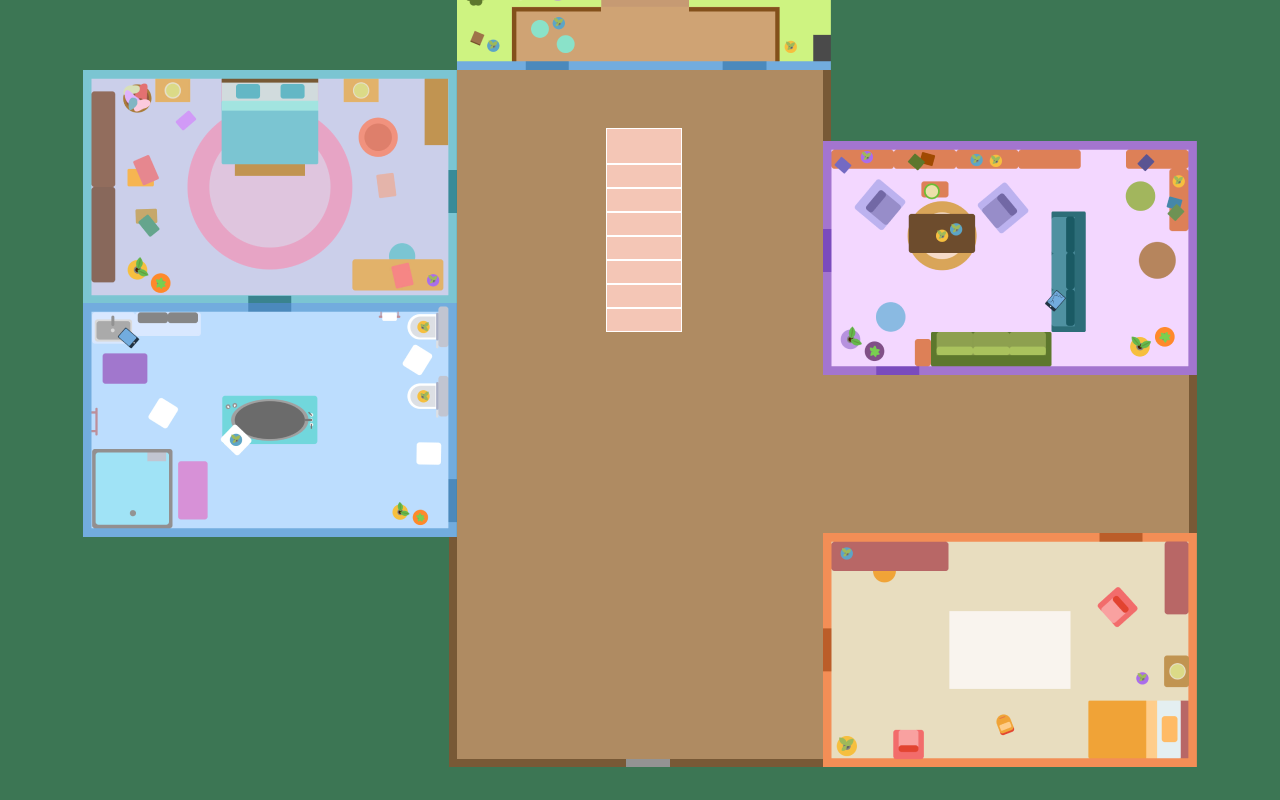
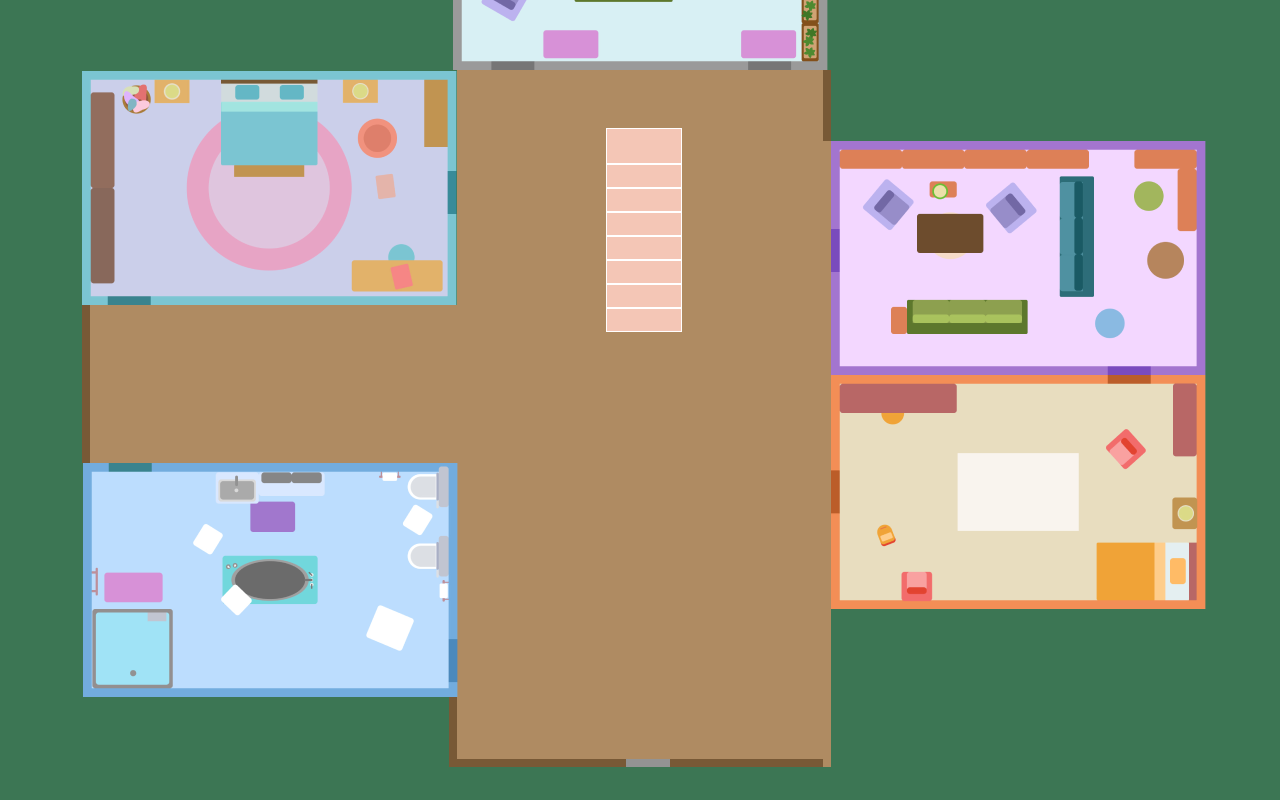
Final

diff --git a/f2bathroom/f2bathroom.html b/f2bathroom/f2bathroom.html
@@ -25,8 +25,8 @@
     <img src="../universal/smoly.png" alt="Object 5" class="breakableObject" id="object5">
     <img src="../universal/smoly.png" alt="Object 6" class="breakableObject" id="object6">
     <img src="../universal/ipad.png" alt="Object 12" class="breakableObject" id="object12">
-    <img src="../universal/door13.png" alt="Object 8" class="breakableObject" id="door">
-    <img src="../universal/door13.png" alt="Object 9" class="breakableObject" id="door2">
+    <img src="../universal/door18.png" alt="Object 8" class="breakableObject" id="door">
+    <img src="../universal/door19.png" alt="Object 9" class="breakableObject" id="door2">
     <img src="../universal/treat.png" alt="Object 10" class="breakableObject" id="object10">
 
 
@@ -36,7 +36,7 @@
   <script src="../universal/function_util.js"></script>
   <audio id="bgMusic" loop autoplay>
     <source src="../universal/bg.mp3" type="audio/mp3">
-  </audio>  <div class="scoreboard-container">  <div class="scoreboard-container">
+  </audio>  <div class="scoreboard-container">
     <div class="scoreboard">
       <div class="break" id="break">0</div>
       <div class="speed">Speed: <span id="timer">0</span></div>

diff --git a/f2hallway/f2hallway.css b/f2hallway/f2hallway.css
@@ -94,14 +94,14 @@ img[id^="door"] {
 }
 
 /* Positions for doors */
-#door1 { top: 160px; left: 447px; width: 10px; height: 55px;}
-#door2 { top: 475px; left: 448px; width: 10px; height: 55px;}
-#door3 { top: 625px; left: 822px; width: 10px; height: 55px; }
-#door4 { top: 533px; left: 1100px; width: 55px; height: 10px; }
-#door5 { top: 366px; left: 870px; width: 55px; height: 10px; }
-#door6 { top: 230px; left: 822px; width: 10px; height: 55px; }
-#door7 { top: 60px; left: 720px; width: 55px; height: 10px;}
-#door8 { top: 60px; left: 520px; width: 55px; height: 10px;}
+#door1 { top: 145px; left: 447px; width: 10px; height: 55px;}
+#door2 { top: 620px; left: 448px; width: 10px; height: 55px;}
+#door3 { top: 470px; left: 830px; width: 10px; height: 55px; }
+#door4 { top: 463px; left: 110px; width: 55px; height: 10px; }
+#door5 { top: 295px; left: 105px; width: 55px; height: 10px; }
+#door6 { top: 230px; left: 830px; width: 10px; height: 55px; }
+#door7 { top: 60px; left: 740px; width: 55px; height: 10px;}
+#door8 { top: 60px; left: 480px; width: 55px; height: 10px;}
 
 #stairs {
   position: absolute;

diff --git a/library/library.js b/library/library.js
@@ -27,6 +27,10 @@ let grandma_pos_X_offset = 23;
 let grandma_pos_Y_offset = 23;
 let grandmaSpeed = 1;
 
+let randomNumber = Math.random();
+let treatVisibility = randomNumber > 0.5;
+document.getElementById("object10").style.visibility = treatVisibility? 'visible' : 'hidden';
+
 // Movement tracking
 const movement = {
   up: false,
@@ -55,7 +59,7 @@ const objects = [
   { element: document.getElementById("object12"), brokenSrc: '../universal/broken-ipad.png', type: "break" },
   { element: document.getElementById("object13"), brokenSrc: '../universal/broken-smolb.png', type: "treat", visibility: treatVisibility },
   { element: document.getElementById("door"), isDoor: true, navigateTo: '../f2hallway/f2hallway.html'},
-  { element: document.getElementById("door2"), isDoor: true, navigateTo: '../f2hallway/f2hallway.html'}
+  { element: document.getElementById("door2"), isDoor: true, navigateTo: '../f2bedroom2/f2bedroom2.html'}
 ];
 const objectStates = [false, false, false, false, false, false, false, false,false,false,false,false]; // Tracks whether objects are broken
 

diff --git a/f2bedroom2/f2bedroom2.js b/f2bedroom2/f2bedroom2.js
@@ -52,9 +52,9 @@ const objects = [
   { element: document.getElementById("object3"), brokenSrc: '../universal/broken-smolb.png', type: "break" },
   { element: document.getElementById("object5"), brokenSrc: '../universal/broken-smoly.png' , type: "break"},
   { element: document.getElementById("object6"), brokenSrc: '../universal/broken-smolp.png', type: "break" },
-  { element: document.getElementById("door"), isDoor: true, navigateTo: '../f2hallway/f2hallway.html'},
   { element: document.getElementById("object10"), brokenSrc: '../universal/broken-smolb.png', type: "treat", visibility: treatVisibility },
-  { element: document.getElementById("door2"), isDoor: true, navigateTo: '../f2hallway/f2hallway.html'}
+  { element: document.getElementById("door"), isDoor: true, navigateTo: '../f2hallway/f2hallway.html'},
+  { element: document.getElementById("door2"), isDoor: true, navigateTo: '../library/library.html'}
 ];
 const objectStates = [false, false, false, false, false, false, false, false,false,false,false,false]; // Tracks whether objects are broken
 

diff --git a/f2bedroom2/f2bedroom2.html b/f2bedroom2/f2bedroom2.html
@@ -23,8 +23,9 @@
     <img src="../universal/smolb.png" alt="Object 3" class="breakableObject" id="object3">
     <img src="../universal/smoly.png" alt="Object 5" class="breakableObject" id="object5">
     <img src="../universal/smolp.png" alt="Object 6" class="breakableObject" id="object6">
-    <img src="../universal/door13.png" alt="Object 8" class="breakableObject" id="door">
-    <img src="../universal/door13.png" alt="Object 9" class="breakableObject" id="door2">
+    <img src="../universal/door21.png" alt="Object 8" class="breakableObject" id="door">
+    <img src="../universal/door20.png" alt="Object 9" class="breakableObject" id="door2">
+    <img src="../universal/treat.png" alt="Object 10" class="breakableObject" id="object10">
 
   
   </div>

diff --git a/library/library.html b/library/library.html
@@ -29,8 +29,8 @@
     <img src="../universal/smoly.png" alt="Object 7" class="breakableObject" id="object7">
     <img src="../universal/smolp.png" alt="Object 10" class="breakableObject" id="object10">
     <img src="../universal/ipad.png" alt="Object 12" class="breakableObject" id="object12">
-    <img src="../universal/door13.png" alt="Object 8" class="breakableObject" id="door">
-    <img src="../universal/door13.png" alt="Object 9" class="breakableObject" id="door2">
+    <img src="../universal/door10.png" alt="Object 8" class="breakableObject" id="door">
+    <img src="../universal/door11.png" alt="Object 9" class="breakableObject" id="door2">
     <img src="../universal/treat.png" alt="Object 13" class="breakableObject" id="object13">
 
 

diff --git a/f2bedroom1/f2bedroom1.html b/f2bedroom1/f2bedroom1.html
@@ -24,8 +24,8 @@
     <img src="../universal/smolb.png" alt="Object 3" class="breakableObject" id="object3">
     <img src="../universal/smoly.png" alt="Object 5" class="breakableObject" id="object5">
     <img src="../universal/smolp.png" alt="Object 6" class="breakableObject" id="object6">
-    <img src="../universal/door13.png" alt="Object 8" class="breakableObject" id="door">
-    <img src="../universal/door13.png" alt="Object 9" class="breakableObject" id="door2">
+    <img src="../universal/door15.png" alt="Object 8" class="breakableObject" id="door">
+    <img src="../universal/door7.png" alt="Object 9" class="breakableObject" id="door2">
     <img src="../universal/treat.png" alt="Object 10" class="breakableObject" id="object10">
 
 

diff --git a/f2hallway/f2hallway.html b/f2hallway/f2hallway.html
@@ -23,8 +23,8 @@
     <img src="../universal/door15.png" alt="Door 1" id="door1">
     <img src="../universal/door2.png" alt="Door 2" id="door2">
     <img src="../universal/door16.png" alt="Door 3" id="door3">
-    <img src="../universal/door17.png" alt="Door 4" id="door4">
-    <img src="../universal/door11.png" alt="Door 5" id="door5">
+    <img src="../universal/door18.png" alt="Door 4" id="door4">
+    <img src="../universal/door14.png" alt="Door 5" id="door5">
     <img src="../universal/door10.png" alt="Door 6" id="door6">
     <img src="../universal/door12.png" alt="Door 7" id="door7">
     <img src="../universal/door12.png" alt="Door 8" id="door8">

diff --git a/balcony/balcony.html b/balcony/balcony.html
@@ -42,7 +42,7 @@
   <audio id="bgMusic" loop autoplay>
     <source src="../universal/bg.mp3" type="audio/mp3">
   </audio>
-    <div class="scoreboard-container">
+  <div class="scoreboard-container">
     <div class="scoreboard">
       <div class="break" id="break">0</div>
       <div class="speed">Speed: <span id="timer">0</span></div>

diff --git a/f2hallway/f2hallway.js b/f2hallway/f2hallway.js
@@ -27,10 +27,6 @@ let grandma_pos_X_offset = 23;
 let grandma_pos_Y_offset = 23;
 let grandmaSpeed = 1;
 
-let randomNumber = Math.random();
-let treatVisibility = randomNumber > 0.5;
-document.getElementById("object10").style.visibility = treatVisibility? 'visible' : 'hidden';
-
 
 // Movement tracking
 const movement = {

diff --git a/f2bathroom/f2bathroom.css b/f2bathroom/f2bathroom.css
@@ -153,14 +153,14 @@ body {
   }
   
   #door {
-    top: 770px;
-    left: 236px;
+    top: 0px;
+    left: 550px;
     height: auto;
     width: auto;
   }
   #door2 {
-    top: 770px;
-    left: 909px;
+    top: 600px;
+    left: 1250px;
     height: auto; 
     width: auto;
   }

diff --git a/f2bedroom2/f2bedroom2.css b/f2bedroom2/f2bedroom2.css
@@ -153,14 +153,14 @@ body {
   }
   
   #door {
-    top: 698px;
-    left: 1177px;
+    top: 300px;
+    left: 0px;
     height: auto;
     width: auto;
   }
   #door2 {
-    top: 770px;
-    left: 909px;
+    top: 0px;
+    left: 920px;
     height: auto; 
     width: auto;
   }
